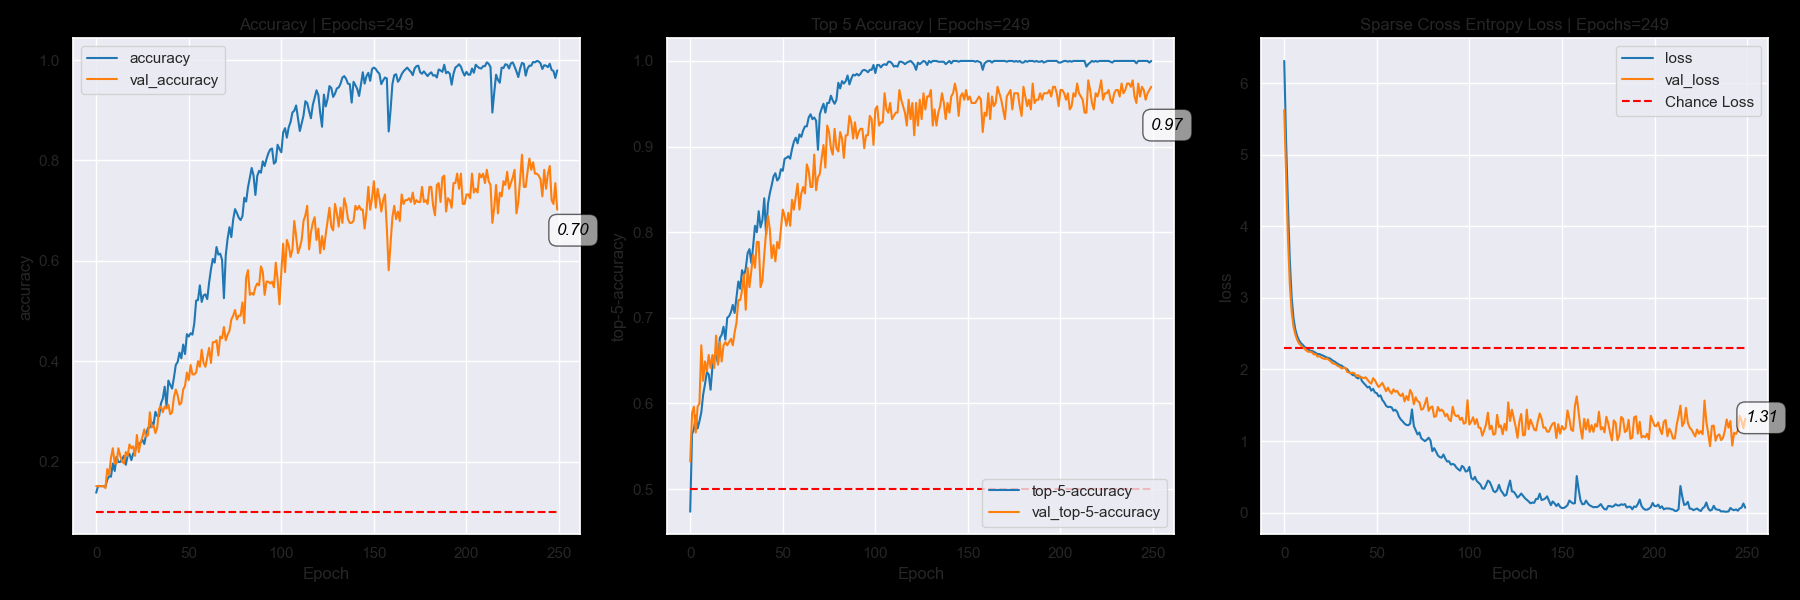
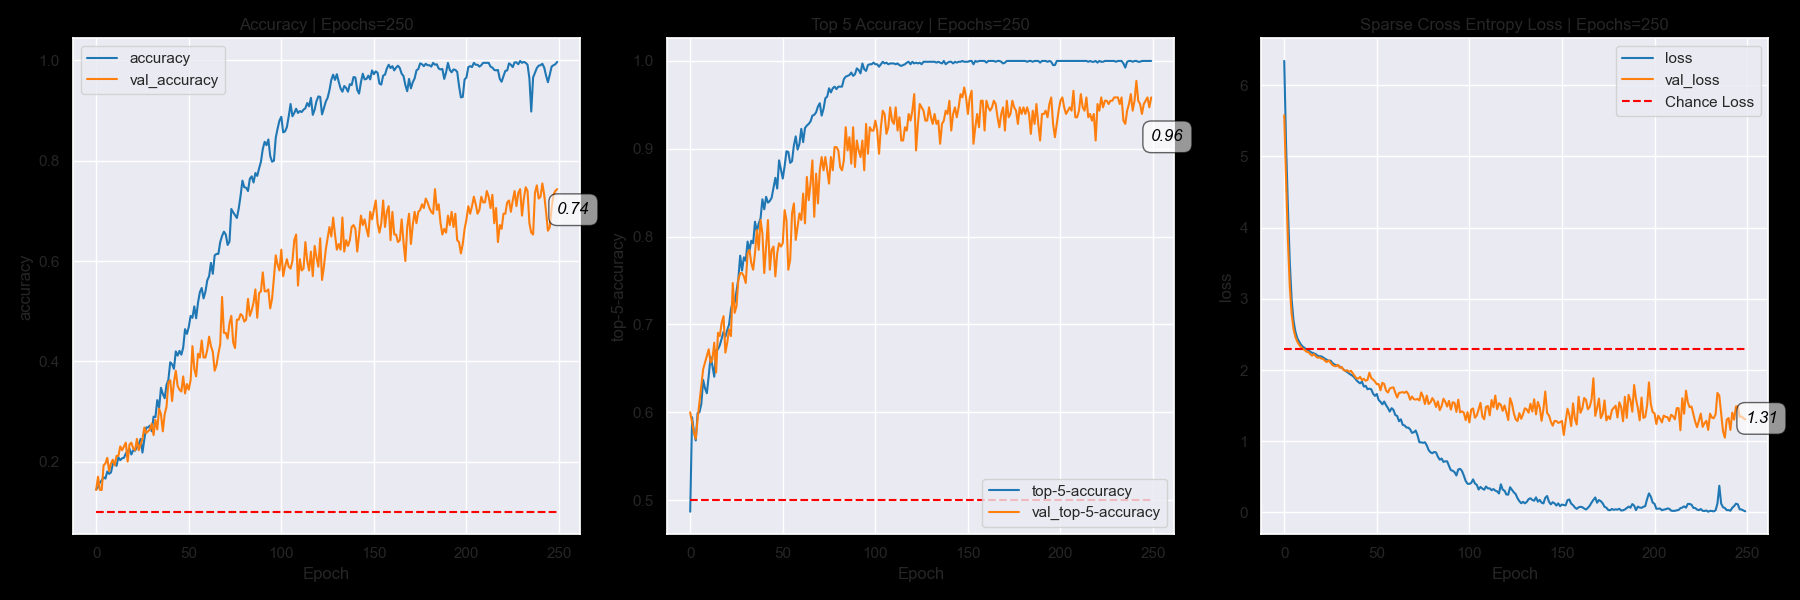
upload new evals

diff --git a/code/vivit.py b/code/vivit.py
@@ -134,7 +134,7 @@ def run_experiment(name, data = train_gen, validation = None, projection = PROJE
         num_classes=NUM_CLASSES,
     )
     model.compile(
-        optimizer=keras.optimizers.Adam(learning_rate=learning_rate, weight_decay=WEIGHT_DECAY),
+        optimizer=keras.optimizers.Adam(learning_rate=learning_rate),
         loss="sparse_categorical_crossentropy",
         metrics=[keras.metrics.SparseCategoricalAccuracy(name="accuracy"), keras.metrics.SparseTopKCategoricalAccuracy(5, name="top-5-accuracy")],
     )
